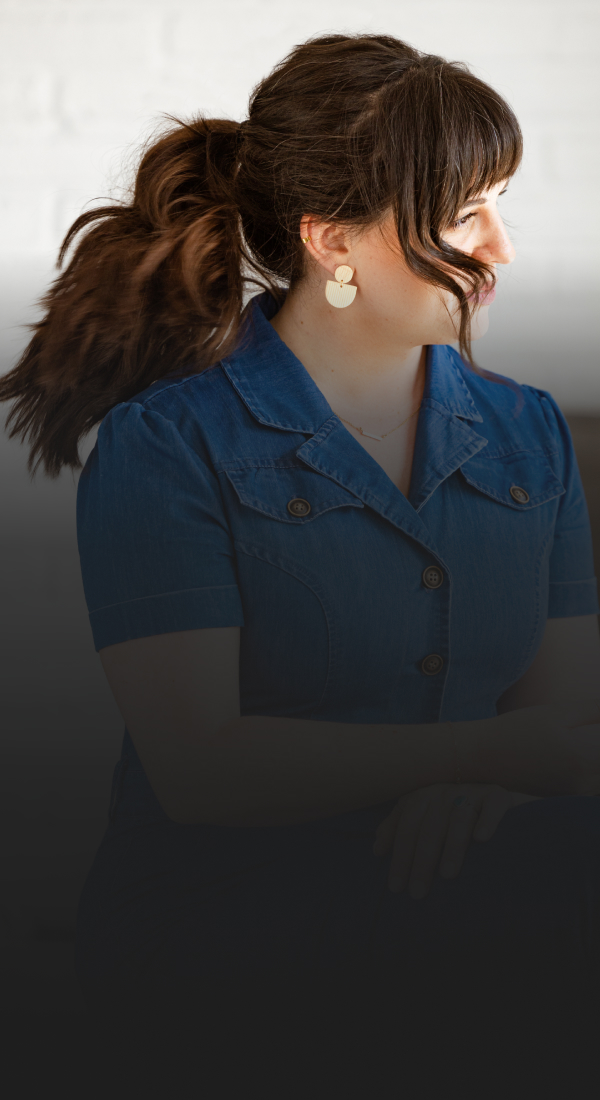
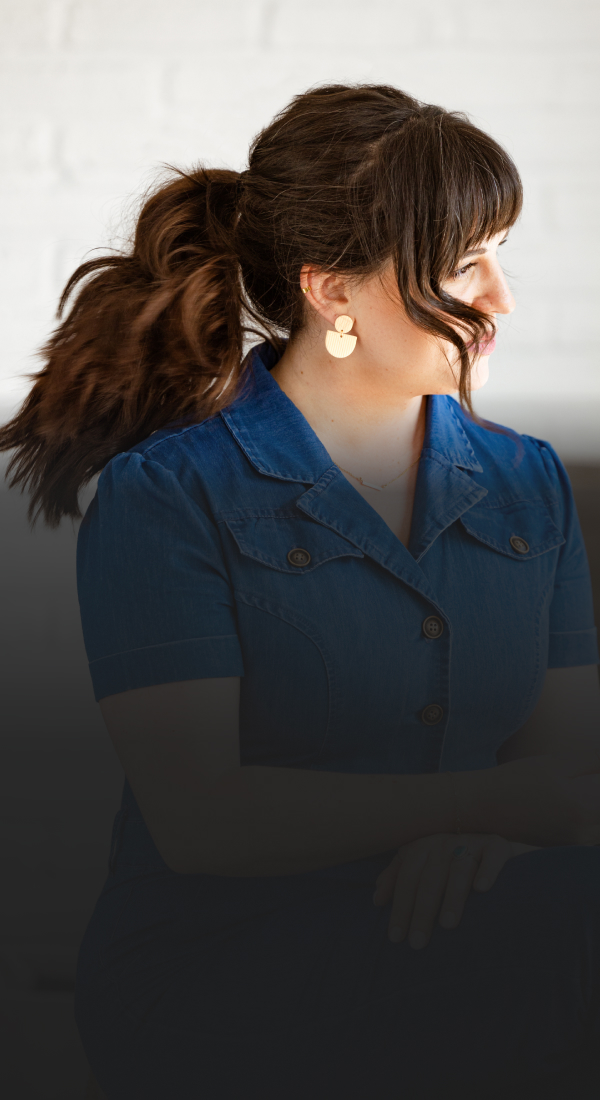
mobile max width

diff --git a/css/styles.css b/css/styles.css
@@ -172,6 +172,9 @@ a:focus {
 
 .container {
     padding: 0 15px;
+    max-width: 450px;
+    margin-left: auto;
+    margin-right: auto;
 }
 .row {
     margin: 25px 0;
